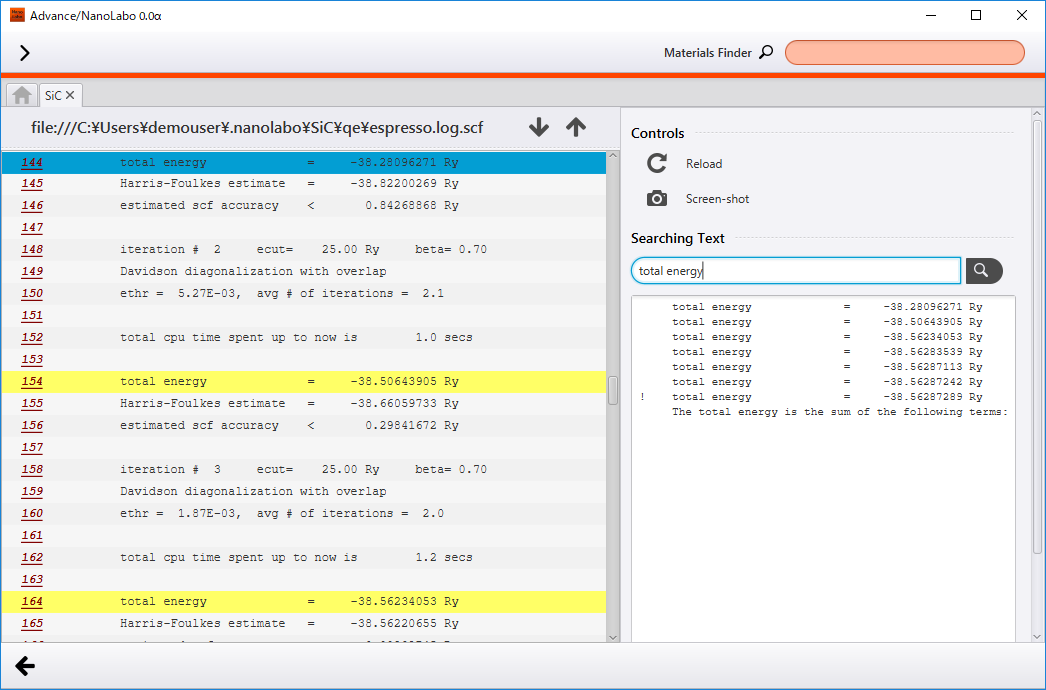
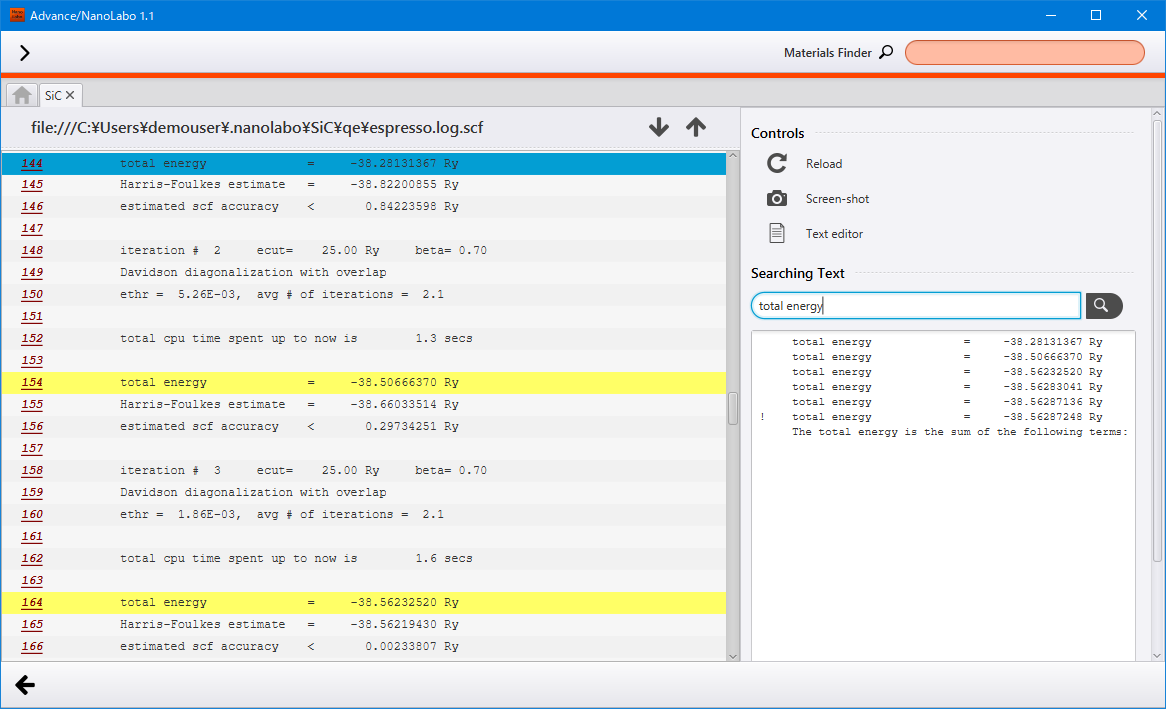
result

diff --git a/docs/source/usage/result.rst b/docs/source/usage/result.rst
@@ -49,4 +49,6 @@
 
 :guilabel:`IN` （入力ファイル）、 :guilabel:`LOG` （ログファイル）、 :guilabel:`ERR` （エラーログファイル）をクリックすると、テキストファイルの内容をそのまま表示します。ファイル内検索、ハイライト表示や抽出も可能です。
 
+:guilabel:`Text editor` をクリックすると、外部のテキストエディターでファイルを開きます。
+
 .. image:: /img/text.png
